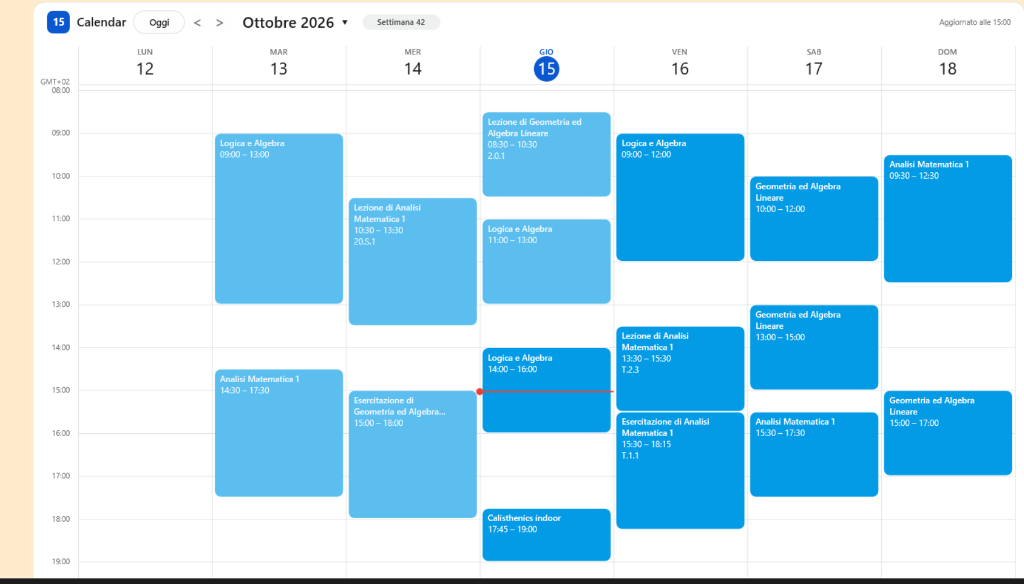
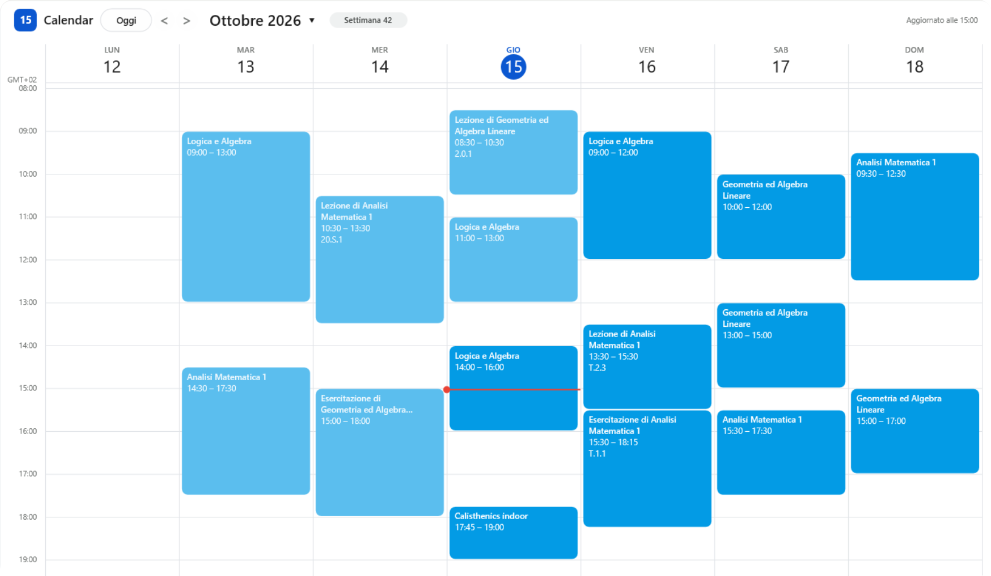
Pixel-snapping and crisp grid rendering, clickable event links, and recurrence fixes

diff --git a/tests/run_tests.py b/tests/run_tests.py
@@ -559,6 +559,74 @@ def test_lua_file_is_utf16_with_bom():
     assert open(LUA_FILE, 'rb').read(2) == b'\xff\xfe', 'Calendar.lua must be saved as UTF-16 LE with BOM'
 
 
+@with_skin
+def test_pixel_snapped_coordinates_and_sharp_grid(sk):
+    sk.start(2027, 3, 3, 12)
+    m = sk.mock
+    # All string and shape meter positions/dimensions are integer-snapped (no fractional blur)
+    for (meter, opt), val in m.options.items():
+        if opt in ('X', 'Y', 'W', 'H'):
+            assert re.match(r'^-?\d+$', str(val)), (meter, opt, val)
+    # 1px grid lines sit on exact .5 coordinates so Direct2D renders crisp 1-pixel strokes
+    for k in range(1, 20):
+        key = 'Shape' if k == 1 else ('Shape%d' % k)
+        s = m.opt('Grid', key) or ''
+        if s.startswith('Line '):
+            coords = s.split('|')[0].replace('Line ', '').strip().split(',')
+            assert any(c.endswith('.5') for c in coords), (key, s)
+
+
+def test_overrides_are_scoped_per_feed():
+    ics1 = (
+        "BEGIN:VCALENDAR\r\nVERSION:2.0\r\n"
+        "BEGIN:VEVENT\r\nUID:shared@test\r\nDTSTART:20270301T090000Z\r\nDTEND:20270301T100000Z\r\n"
+        "RRULE:FREQ=DAILY;COUNT=2\r\nSUMMARY:Feed1 Daily\r\nEND:VEVENT\r\n"
+        "BEGIN:VEVENT\r\nUID:shared@test\r\nRECURRENCE-ID:20270302T090000Z\r\n"
+        "DTSTART:20270302T140000Z\r\nDTEND:20270302T150000Z\r\nSUMMARY:Feed1 Moved\r\nEND:VEVENT\r\n"
+        "END:VCALENDAR\r\n"
+    )
+    ics2 = (
+        "BEGIN:VCALENDAR\r\nVERSION:2.0\r\n"
+        "BEGIN:VEVENT\r\nUID:shared@test\r\nDTSTART:20270301T090000Z\r\nDTEND:20270301T100000Z\r\n"
+        "RRULE:FREQ=DAILY;COUNT=2\r\nSUMMARY:Feed2 Daily\r\nEND:VEVENT\r\n"
+        "END:VCALENDAR\r\n"
+    )
+    lua = new_runtime(MockSkin({}, ini_sections()))
+    wc = lua.globals()._WC
+    wc.cfg.lang = wc.LANGS.en
+    wc.cfg.showDeclined = True
+    wc.parseICS(ics1, 1)
+    wc.parseICS(ics2, 2)
+    wc.buildOverrides()
+    first = wc.daysFromCivil(2027, 3, 1)
+    inst = wc.buildInstances(first, first + 7)
+    f2 = [inst[i].s for i in range(1, len(inst) + 1) if inst[i].title == 'Feed2 Daily']
+    assert f2 == [utc(2027, 3, 1, 9), utc(2027, 3, 2, 9)], f2
+
+
+def test_event_conference_url_and_Empty_task():
+    ics = (
+        "BEGIN:VCALENDAR\r\nVERSION:2.0\r\n"
+        "BEGIN:VEVENT\r\nUID:u1\r\nDTSTART:20270303T100000Z\r\nDTEND:20270303T120000Z\r\n"
+        "SUMMARY:Call\r\nDESCRIPTION:Join at https://meet.google.com/abc-defg-hij now\r\nEND:VEVENT\r\n"
+        "BEGIN:VEVENT\r\nUID:u2\r\nDTSTART;VALUE=DATE:20270303\r\nSUMMARY:   \r\n"
+        "X-WC-TASK:COMPLETED\r\nEND:VEVENT\r\n"
+        "END:VCALENDAR\r\n"
+    )
+    sk = Skin()
+    try:
+        open(os.path.join(sk.dir, 'DownloadFile', 'calendar1.ics'), 'w', encoding='utf-8').write(ics)
+        sk.start(2027, 3, 3, 12)
+        m = sk.mock
+        idx = [i for i in range(1, 81) if m.opt('EvT%d' % i, 'Text') == 'Call'][0]
+        assert m.opt('EvBg%d' % idx, 'LeftMouseUpAction') == '["https://meet.google.com/abc-defg-hij"]'
+        ad = sk.all_day()
+        assert '✓ (no title)' in ad, ad
+        sk.check_clean()
+    finally:
+        sk.close()
+
+
 def main():
     tests = [(n, f) for n, f in sorted(globals().items()) if n.startswith('test_') and callable(f)]
     failed = 0
